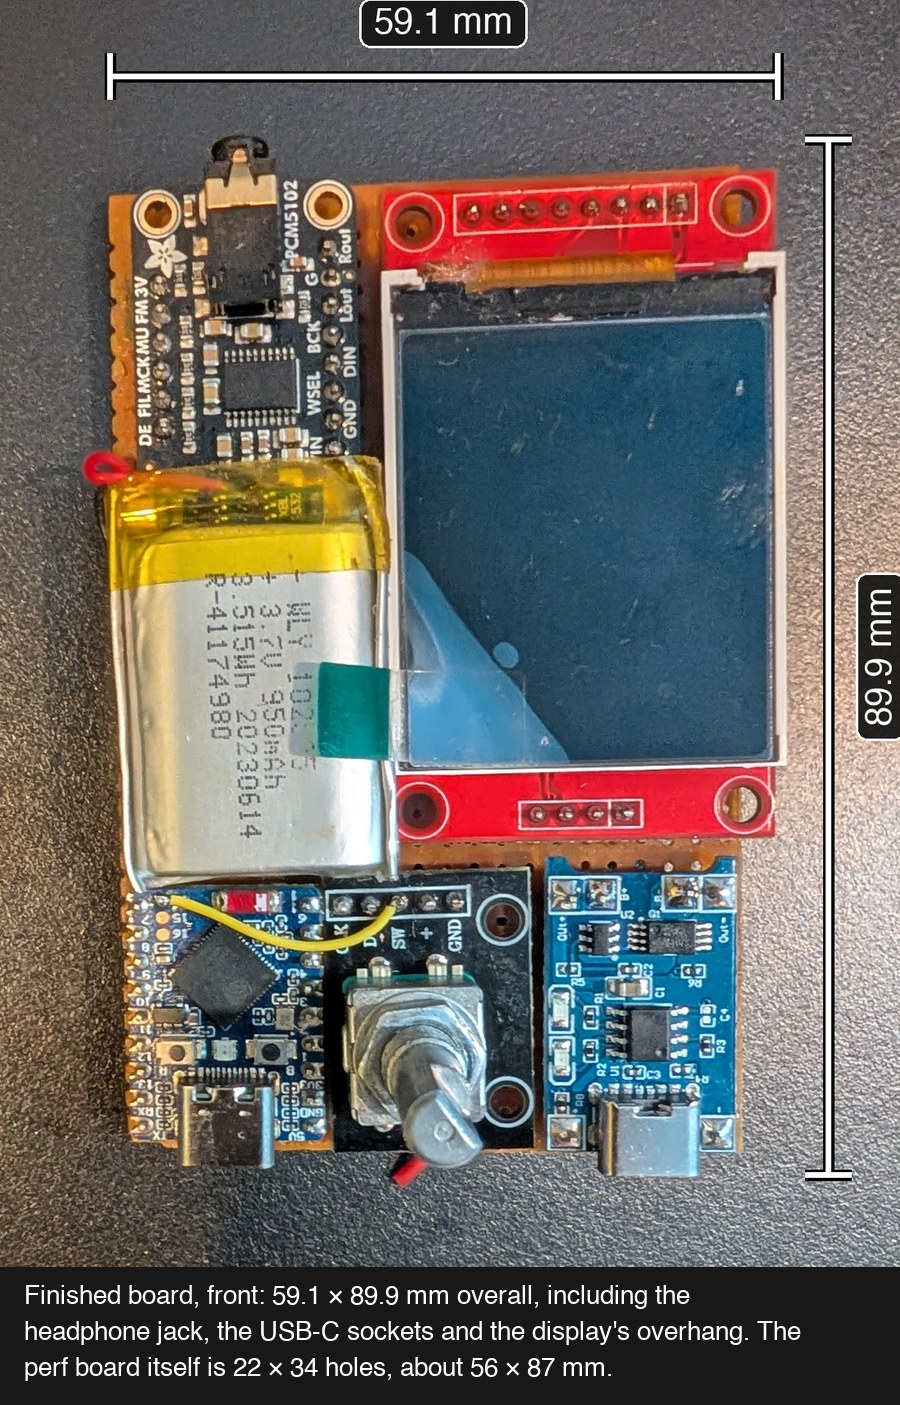
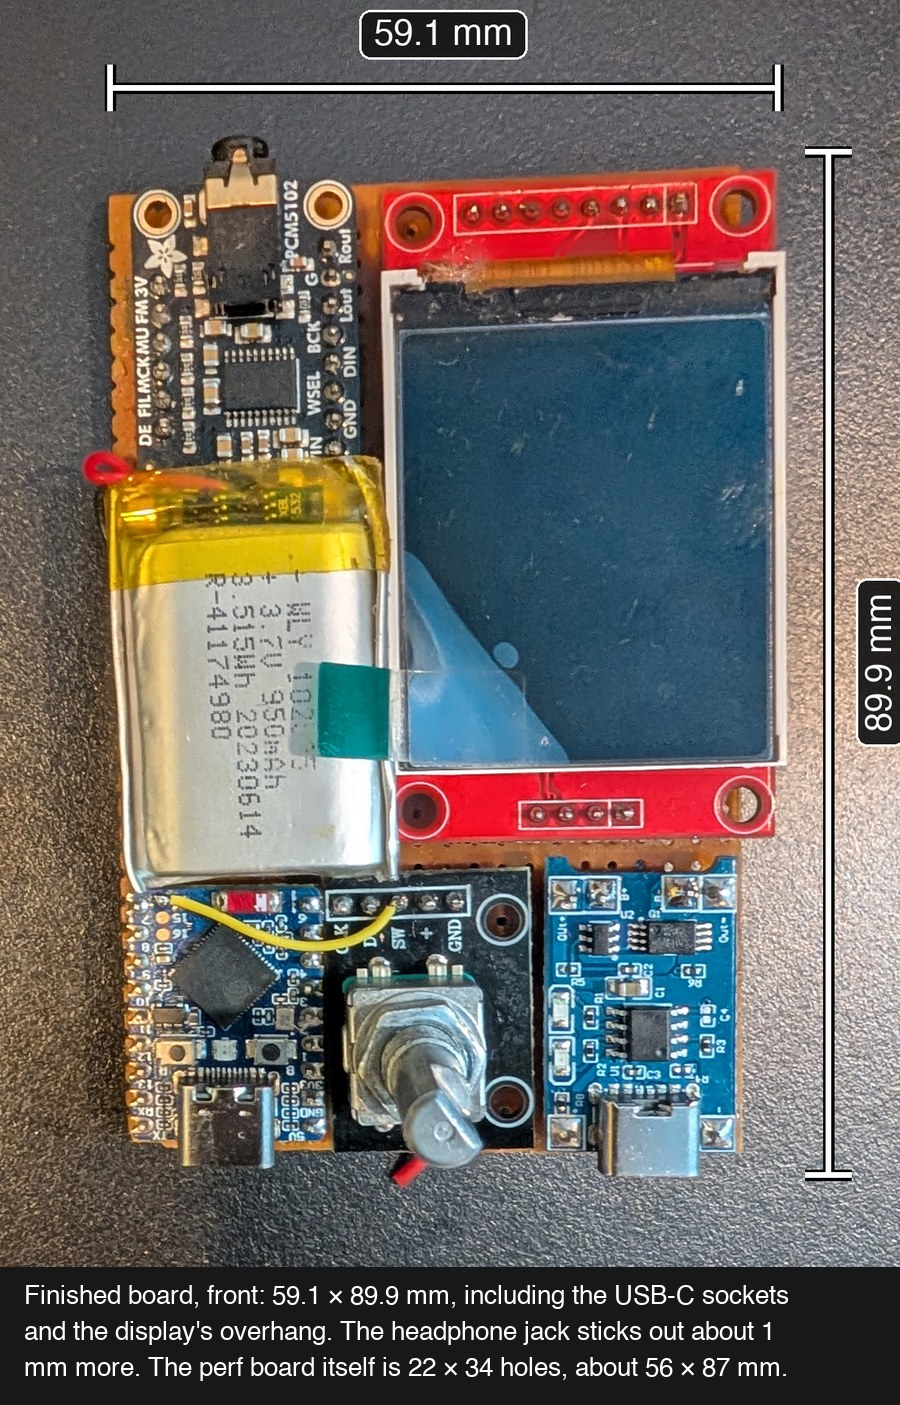
Assembly: correct what the 89.9, 15.4 and 15.7 readings measure

diff --git a/hardware/assembly/README.md b/hardware/assembly/README.md
@@ -6,12 +6,12 @@ The finished build on one perf board, with the measurements a case has to fit. A
 
 | Measurement | mm | Photo |
 |---|---|---|
-| Overall length, headphone jack tip to USB-C sockets | 89.9 | [length](length-89.9.jpg) |
+| Length including the USB-C sockets; the headphone jack sticks out about 1 more | 89.9 | [length](length-89.9.jpg) |
 | Overall width, perf board plus the display's overhang | 59.1 | [width](width-59.1.jpg) |
-| Thickness at the USB-C end, back wires to top of battery | 15.4 | [thickness](thickness-usb-end-15.4.jpg) |
-| Thickness at the jack end, back wires to top of battery | 15.7 | [thickness](thickness-jack-end-15.7.jpg) |
+| Back wires to the top of the encoder body, without the threaded bush and shaft | 15.4 | [encoder body](encoder-body-15.4.jpg) |
+| Greatest thickness, back wires to the top of the battery | 15.7 | [thickness](thickness-15.7.jpg) |
 | Back of the perf board to the face of the screen | 8.4 | [screen face](screen-face-8.4.jpg) |
 | Back of the perf board to the top of the display board | 5.7 | [display board](display-board-5.7.jpg) |
 | Lower edge of the screen to the USB-C end | 36.2 | [screen to end](screen-to-usb-end-36.2.jpg) |
 
-The perf board itself is 22 × 34 holes, about 56 × 87 mm. The encoder shaft stands above everything else and is not included in the thickness figures. Sizes of the individual parts, including the power switch, are in [../components](../components/).
+The perf board itself is 22 × 34 holes, about 56 × 87 mm. The encoder's threaded bush and shaft stand above everything else and are not included in these figures. Sizes of the individual parts, including the power switch, are in [../components](../components/).

diff --git a/.claude/CLAUDE.md b/.claude/CLAUDE.md
@@ -102,10 +102,10 @@ Board is built and wired (2026-11-15). Owner's caliper readings of the finished 
 (photos in `hardware/assembly/`):
 | What | mm |
 |---|---|
-| Overall length, jack tip to USB-C sockets | 89.9 |
+| Length incl. USB-C sockets, excl. the jack, which sticks out about 1 more (owner, 2026-11-15) | 89.9 |
 | Overall width, perf board + display overhang | 59.1 |
-| Thickness at USB-C end, back wires to battery top | 15.4 |
-| Thickness at jack end, back wires to battery top | 15.7 |
+| Back wires to top of encoder body, excl. threaded bush and shaft | 15.4 |
+| Greatest thickness: back wires to battery top | 15.7 |
 | Perf board back to screen face | 8.4 |
 | Perf board back to top of display PCB | 5.7 |
 | Lower edge of screen to USB-C end (my reading of the photo; confirm) | 36.2 |
